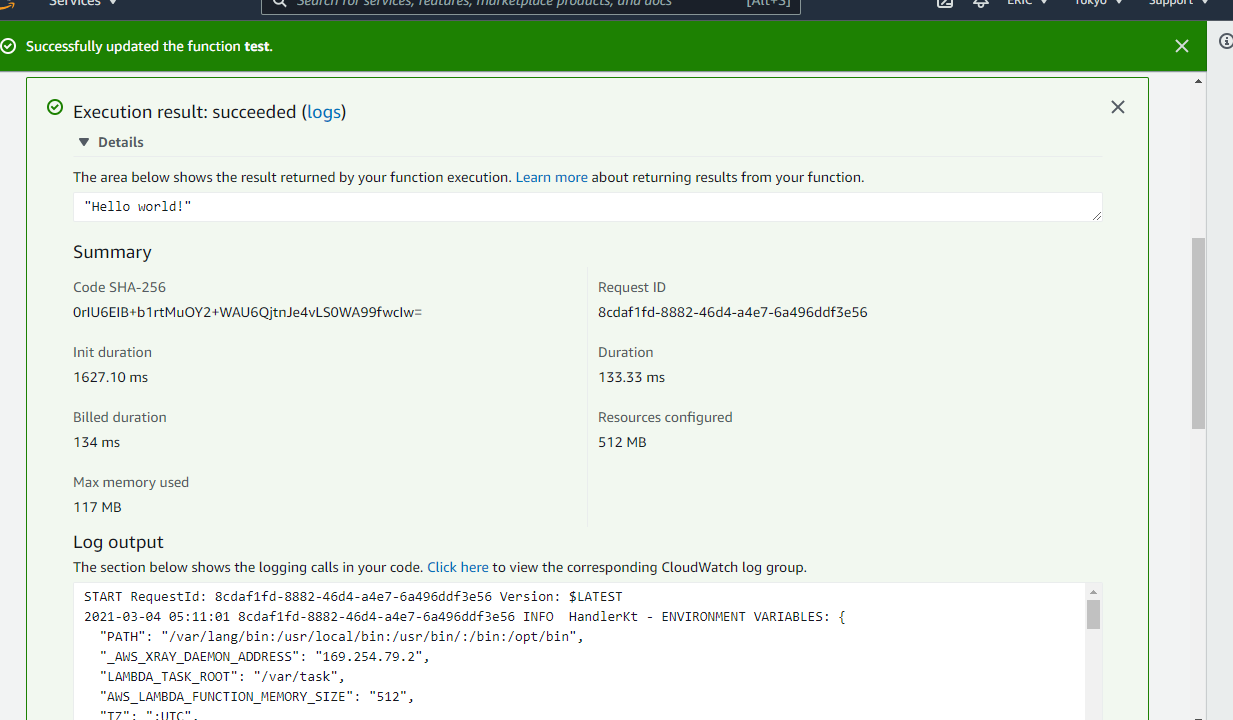
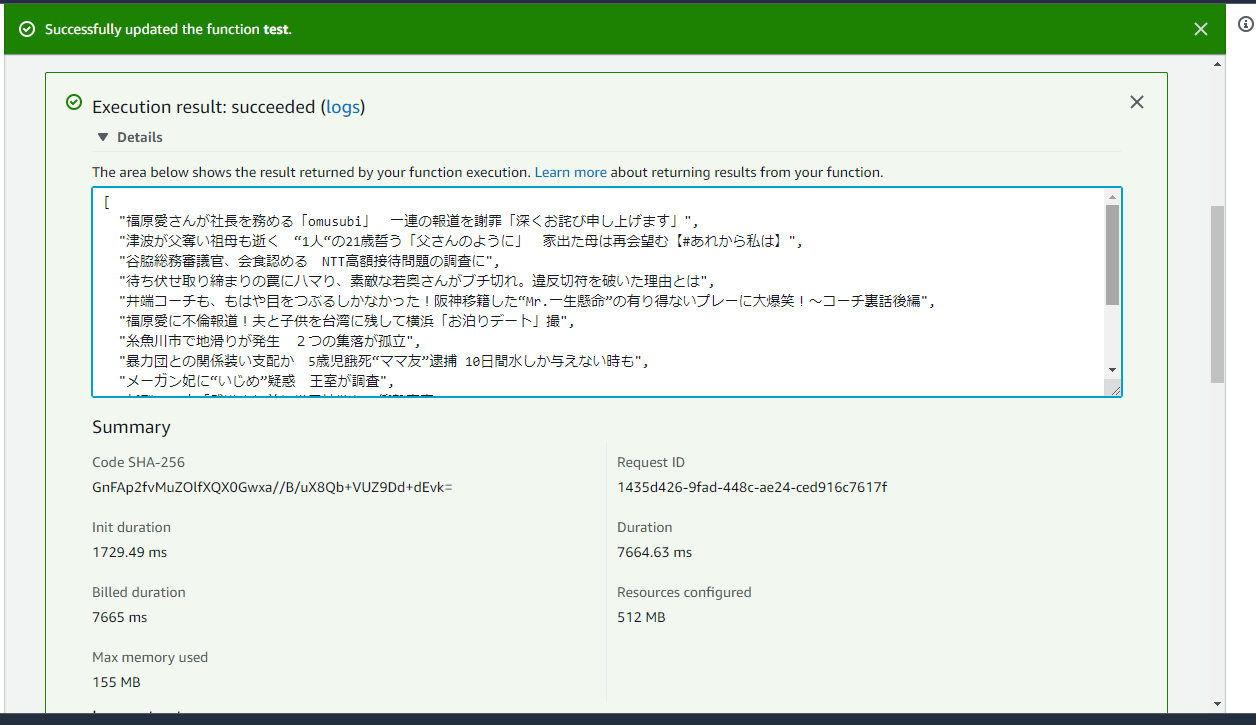
update

diff --git a/src/main/java/example/HandlerKt.kt b/src/main/java/example/HandlerKt.kt
@@ -11,19 +11,19 @@ import software.amazon.awssdk.services.lambda.model.GetAccountSettingsRequest
 import software.amazon.awssdk.services.lambda.model.GetAccountSettingsResponse
 import java.util.concurrent.CompletableFuture
 
-class HandlerKt : RequestHandler<TestEvent, String> {
+class HandlerKt : RequestHandler<TestEvent, List<String>> {
     companion object {
         @Suppress("JAVA_CLASS_ON_COMPANION")
         private val logger = getLogger(javaClass.enclosingClass)
         private val gson = GsonBuilder().setPrettyPrinting().create()
     }
 
-    override fun handleRequest(event: TestEvent, context: Context): String {
+    override fun handleRequest(event: TestEvent, context: Context): List<String> {
        // log execution details
         logger.info("ENVIRONMENT VARIABLES: {}", gson.toJson(System.getenv()))
         logger.info("CONTEXT: {}", gson.toJson(context))
         logger.info("EVENT: {}", gson.toJson(event))
 
-        return event.message
+        return YahooNewsParser.getNews()//event.message
     }
 }

diff --git a/src/main/java/io/WebService.kt b/src/main/java/io/WebService.kt
@@ -1,0 +1,30 @@
+package io
+
+import io.vavr.control.Try
+import org.jsoup.Jsoup
+import org.jsoup.nodes.Document
+
+object WebService {
+    private const val CONNECTION_TIMEOUT = 15000
+
+    fun getDocument(strUrl: String): Try<Document> {
+        return Try.of {
+            Jsoup.connect(strUrl)
+                .ignoreHttpErrors(true)
+                .timeout(CONNECTION_TIMEOUT).get()
+        }
+    }
+
+    fun getDocument(strUrl: String, cookies: String): Try<Document> {
+        return if (cookies.contains("=")) {
+            val cookiesValue = cookies.split("=".toRegex()).toTypedArray()
+            Try.of {
+                Jsoup.connect(strUrl)
+                    .cookie(cookiesValue[0], cookiesValue[1])
+                    .header("Cookies", cookies)
+                    .ignoreHttpErrors(true)
+                    .timeout(CONNECTION_TIMEOUT).get()
+            }
+        } else Try.failure(Exception("Invalid Cookies"))
+    }
+}

diff --git a/src/main/java/example/YahooNewsParser.kt b/src/main/java/example/YahooNewsParser.kt
@@ -1,0 +1,18 @@
+package example
+
+import io.JSoupUtil
+import io.WebService
+
+object YahooNewsParser {
+    private const val url = "https://news.yahoo.co.jp/"
+
+    fun getNews() : List<String> {
+        val htmlDoc = WebService.getDocument(url)
+        return htmlDoc.map {
+            JSoupUtil.elementStream(it, "p.yjnSub_list_headline")
+                .map { p->p.text() }
+                .distinct()
+                .toJavaList()
+        }.getOrElse { listOf("") }
+    }
+}

diff --git a/src/main/java/io/JSoupUtil.java b/src/main/java/io/JSoupUtil.java
@@ -1,0 +1,56 @@
+package io;
+
+import io.vavr.Tuple;
+import io.vavr.Tuple2;
+import io.vavr.collection.Stream;
+import io.vavr.control.Option;
+import org.jsoup.nodes.Element;
+import org.jsoup.select.Elements;
+
+// 2019 Eric Chan
+public class JSoupUtil {
+
+	public static Option<Element> elementFirst(Elements elements, String query) {
+		return Option.of(elements.select(query).first());
+	}
+
+	public static Option<Element> elementFirst(Element element, String query) {
+		return Option.of(element.select(query).first());
+	}
+
+	public static Stream<Element> elementStream(Element element, String query) {
+		return Stream.ofAll(element.select(query).stream());
+	}
+
+	public static String firstText(Elements elements, String query) {
+		return elementFirst(elements, query).map(Element::text).getOrElse("");
+	}
+
+	public static String firstText(Element element, String query) {
+		return firstTextOption(element, query).getOrElse("");
+	}
+
+	public static String firstText(Element element, String query, String ops) {
+		return firstTextOption(element, query).getOrElse(ops);
+	}
+
+	public static Option<String> firstTextOption(Element element, String query) {
+		return elementFirst(element, query).map(Element::text).filter(s -> !s.isEmpty());
+	}
+
+	public static Option<String> firstAbsHref(Element element, String query) {
+		return elementFirst(element, query).map(e -> e.attr("abs:href"));
+	}
+
+	public static Option<String> firstHref(Element element, String query) {
+		return elementFirst(element, query).map(e -> e.attr("href"));
+	}
+
+	public static Option<Tuple2<String, String>> firstNameUrlSet(Element element, String query) {
+		return elementFirst(element, query).map(e -> Tuple.of(e.text(), e.attr("href")));
+	}
+
+	public static Stream<Tuple2<String, String>> textUrlStream(Element element, String query) {
+		return elementStream(element, query).map(e -> Tuple.of(e.text(), e.attr("href")));
+	}
+}

diff --git a/README.md b/README.md
@@ -1,5 +1,10 @@
 # AWS Lambda Test function (Kotlin)
 
+Objective: Try the AWS Lambda Service
+
+Change the last test code into kotlin
+Change the return message to a string list of yahoo news headlines
+
 ![Result](result.png)
 
 
